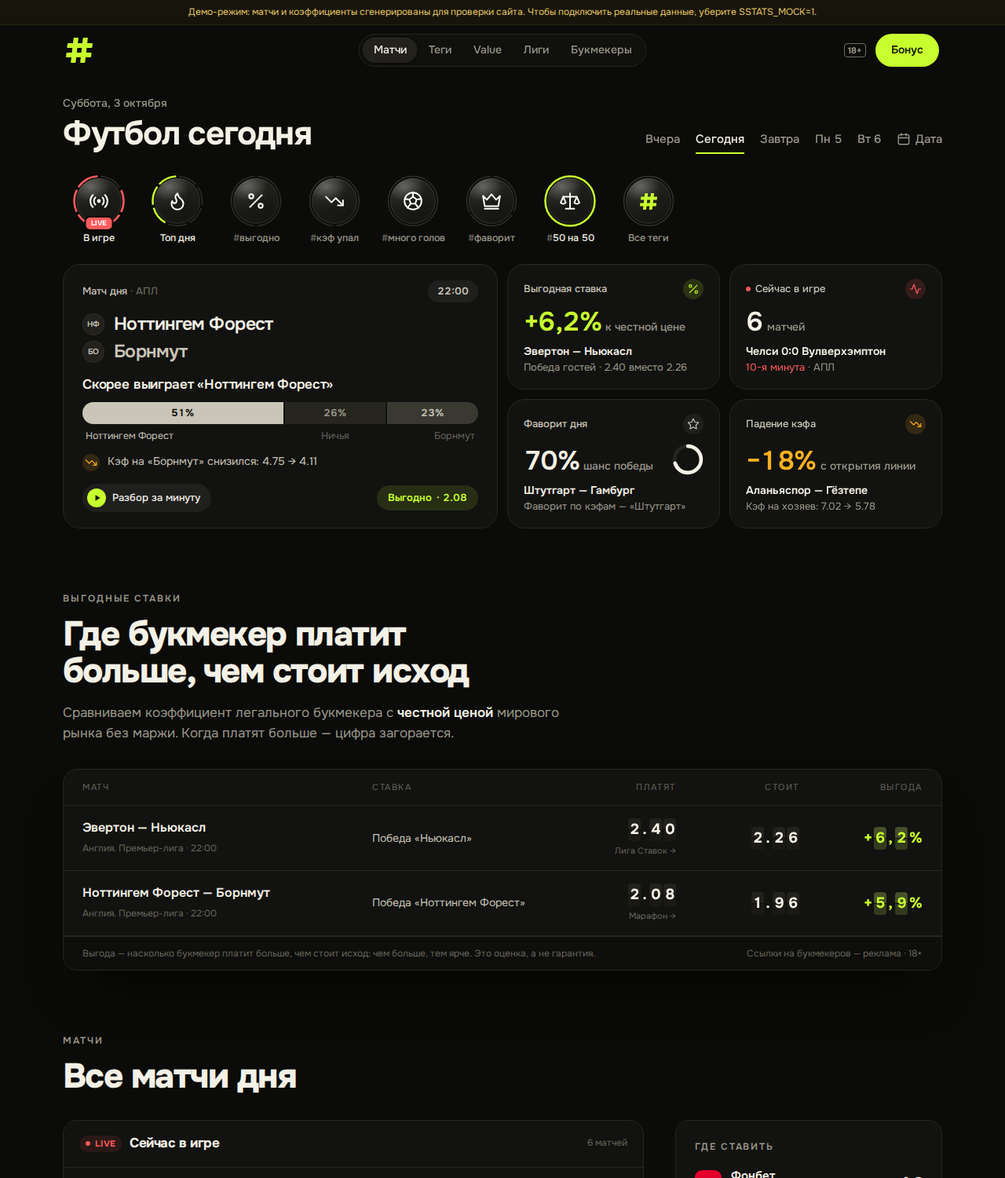
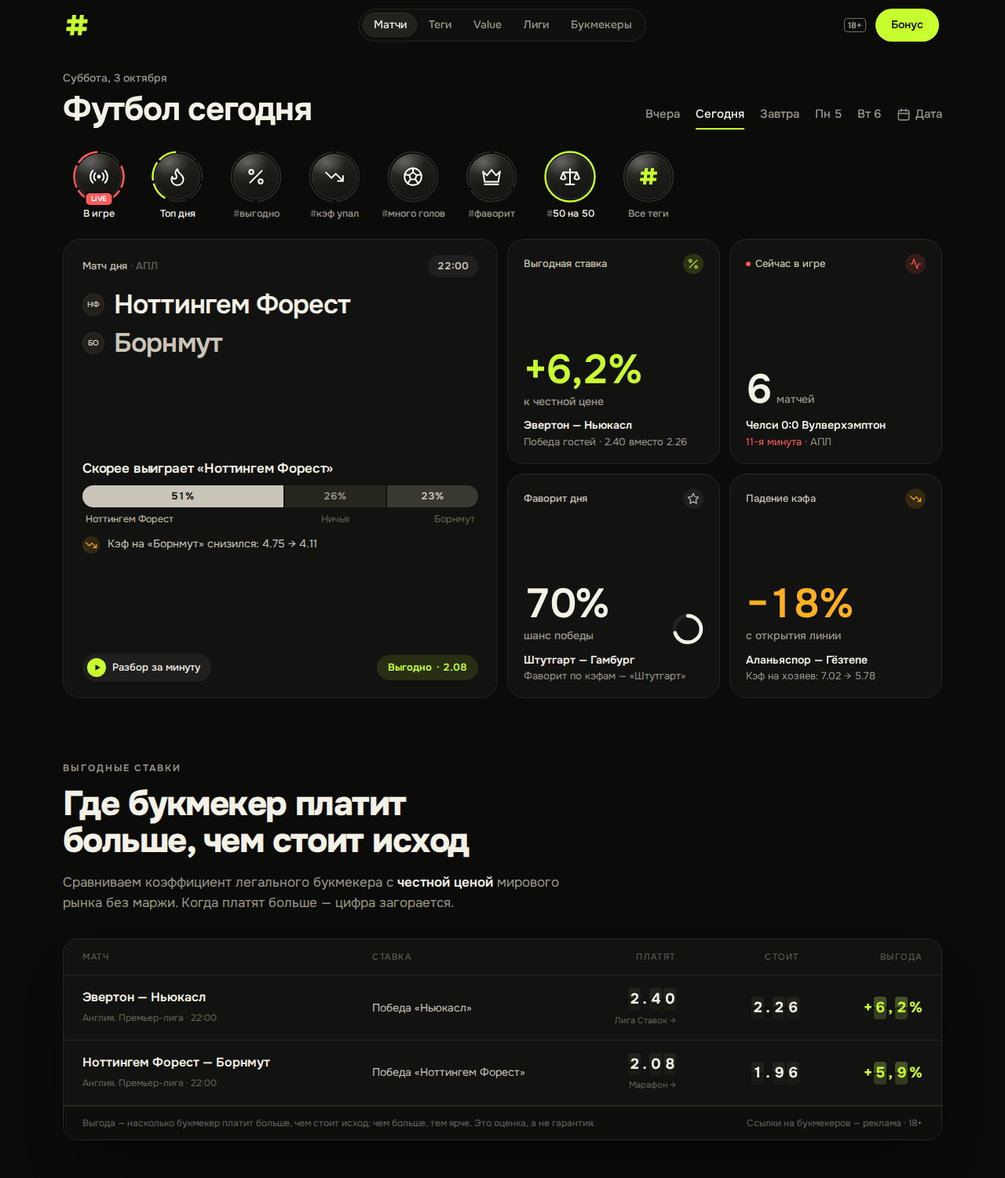
Первый экран — только виджеты, логотип меньше, без полосы демо-режима
- На компьютере заголовок, кружки и «Сводка дня» занимают всё окно (до 50rem):
  «Все матчи дня» начинаются ниже, по прокрутке. «Матч дня» — три группы
  (команды, вывод, кнопки), крупные цифры и команды растут с высотой окна.
- Логотип-решётка: 26 px в шапке, 28 в подвале.
- Убрана жёлтая полоса демо-режима над шапкой; в демо — тихая строка в подвале.
- Подпись к цифре («к честной цене», «с открытия линии») видна и на телефоне —
  переносится под цифру, а не обрезается.
- Полосы вкладок дней и кружков на телефоне больше не шире экрана (были +4 px
  и боковая прокрутка).
- README, AGENTS.md и docs/home.png обновлены.

Claude-Session: https://claude.ai/code/session_01LqCxNKeCAKNwhNzoBsjYvY

diff --git a/components/DaySummary.tsx b/components/DaySummary.tsx
@@ -88,12 +88,13 @@ function Tile({ accent = 'none', label, icon, children }: { accent?: keyof typeo
   )
 }
 
-/** Крупная цифра; подпись к ней — обычным размером, на телефоне её можно спрятать. */
+/** Крупная цифра и подпись к ней обычным размером: в узкой плитке подпись встаёт под цифру. */
 function Big({ children, unit, className = '' }: { children: React.ReactNode; unit?: React.ReactNode; className?: string }) {
   return (
-    <div className="flex min-w-0 items-baseline gap-1.5">
-      <span className={`num whitespace-nowrap text-[30px] font-semibold leading-none tracking-[-0.045em] sm:text-[34px] ${className}`}>{children}</span>
-      {unit ? <span className="truncate text-[14px] font-medium text-dim">{unit}</span> : null}
+    // подпись встаёт рядом с цифрой, а если места нет — переносится под неё целиком, не обрезаясь
+    <div className="flex min-w-0 flex-wrap items-baseline gap-x-1.5 gap-y-1">
+      <span className={`num whitespace-nowrap text-[30px] font-semibold leading-none tracking-[-0.045em] sm:text-[34px] lg:text-[clamp(34px,5.6vh,52px)] ${className}`}>{children}</span>
+      {unit ? <span className="whitespace-nowrap text-[14px] font-medium text-dim">{unit}</span> : null}
     </div>
   )
 }
@@ -156,7 +157,7 @@ function Card({ kind, s }: { kind: CardKind; s: Summary }) {
       const p = it.summary!.pick!
       return (
         <Tile accent="acid" label={<Short phone="Выгодно" full="Выгодная ставка" />} icon="percent">
-          <Big className="text-acid" unit={<span className="hidden sm:inline">к честной цене</span>}>
+          <Big className="text-acid" unit="к честной цене">
             {edge(p.ev ?? 0)}
           </Big>
           <MatchLink it={it} />
@@ -173,7 +174,7 @@ function Card({ kind, s }: { kind: CardKind; s: Summary }) {
       const g = s.progruz!
       return (
         <Tile accent="hot" label={<Short phone="Кэф упал" full="Падение кэфа" />} icon="down">
-          <Big className="text-hot" unit={<span className="hidden sm:inline">с открытия линии</span>}>
+          <Big className="text-hot" unit="с открытия линии">
             −{Math.round(g.drop * 100)}%
           </Big>
           <MatchLink it={g.item} />
@@ -281,6 +282,11 @@ function ChanceBar({ m }: { m: Match }) {
     n: n[k],
     name: k === 'draw' ? 'ничья' : k === 'home' ? m.home.name : m.away.name,
   }))
+  // «Ничья» под серединой — только если по обе стороны хватает места подписям команд
+  const BAR = 560
+  const est = (t: string) => t.length * 7 + 10
+  const mid = f.home + f.draw / 2
+  const drawAt = f.draw >= 0.1 && mid * BAR >= est(m.home.name) + 30 && (1 - mid) * BAR >= est(m.away.name) + 30 ? mid * 100 : null
   const tone = (k: (typeof cells)[number]['k']) => (k === fav ? 'bg-chalk text-ink' : k === 'draw' ? 'bg-[#26251f] text-dim' : 'bg-[#3a3931] text-chalk')
   const label = `Шансы по коэффициентам букмекеров: ${cells.map((c) => `${c.k === 'draw' ? c.name : `«${c.name}»`} — ${c.n}%`).join(', ')}`
   return (
@@ -292,16 +298,26 @@ function ChanceBar({ m }: { m: Match }) {
           </span>
         ))}
       </div>
-      <div className="mt-1.5 flex gap-0.5 text-[12.5px]" aria-hidden>
-        {cells.map((c, i) => (
-          <span
-            key={c.k}
-            className={`min-w-0 truncate px-1 ${i === 0 ? 'text-left' : i === 2 ? 'text-right' : 'text-center'} ${c.k === fav ? 'text-chalk' : 'text-mute'}`}
-            style={{ width: `${c.p * 100}%` }}
-          >
-            {c.k === 'draw' ? 'Ничья' : c.name}
+      {/* команды — по краям полосы, не обрезаются узким сегментом; «Ничья» — под серединой,
+          если ей хватает места (оценка по ширине полосы ~560 px), на телефоне — только команды */}
+      <div className="relative mt-1.5 h-[18px] text-[12.5px] leading-[18px]" aria-hidden>
+        <span
+          className={`absolute left-0 top-0 max-w-[55%] truncate pl-1 sm:max-w-[var(--hm)] ${fav === 'home' ? 'text-chalk' : 'text-mute'}`}
+          style={{ '--hm': drawAt ? `${drawAt - 6}%` : '55%' } as React.CSSProperties}
+        >
+          {m.home.name}
+        </span>
+        {drawAt ? (
+          <span className="absolute top-0 hidden -translate-x-1/2 text-mute sm:block" style={{ left: `${drawAt}%` }}>
+            Ничья
           </span>
-        ))}
+        ) : null}
+        <span
+          className={`absolute right-0 top-0 max-w-[45%] truncate pr-1 text-right sm:max-w-[var(--am)] ${fav === 'away' ? 'text-chalk' : 'text-mute'}`}
+          style={{ '--am': drawAt ? `${100 - drawAt - 6}%` : '45%' } as React.CSSProperties}
+        >
+          {m.away.name}
+        </span>
       </div>
     </div>
   )
@@ -339,27 +355,35 @@ function TopCard({ it }: { it: FeedItem }) {
     </span>
   )
   return (
-    <article className="relative col-span-2 flex min-w-0 flex-col rounded-[22px] border border-edge bg-panel p-5 shadow-[inset_0_1px_0_rgb(255_255_255/0.035)] transition-colors duration-300 hover:border-edge-2 sm:px-6 sm:py-5 lg:row-span-2">
-      <div className="flex items-center justify-between gap-3">
-        <p className="min-w-0 truncate text-[13px] font-medium text-chalk">
-          Матч дня <span className="text-mute">· {featuredInfo(m.league)?.short || m.league.name}</span>
-        </p>
-        <span
-          className={`num inline-flex h-7 shrink-0 items-center gap-1.5 rounded-full px-3 text-[13px] font-semibold ${
-            live ? 'bg-live/10 text-live' : 'bg-white/[0.06] text-chalk'
-          }`}
+    // три группы: команды сверху, вывод посередине, кнопки снизу — свободное место делится между ними,
+    // а не собирается одной дырой, когда карточка тянется на высоту экрана
+    <article className="relative col-span-2 flex min-w-0 flex-col justify-between gap-5 rounded-[22px] border border-edge bg-panel p-5 shadow-[inset_0_1px_0_rgb(255_255_255/0.035)] transition-colors duration-300 hover:border-edge-2 sm:px-6 sm:py-5 lg:row-span-2">
+      <div>
+        <div className="flex items-center justify-between gap-3">
+          <p className="min-w-0 truncate text-[13px] font-medium text-chalk">
+            Матч дня <span className="text-mute">· {featuredInfo(m.league)?.short || m.league.name}</span>
+          </p>
+          <span
+            className={`num inline-flex h-7 shrink-0 items-center gap-1.5 rounded-full px-3 text-[13px] font-semibold ${
+              live ? 'bg-live/10 text-live' : 'bg-white/[0.06] text-chalk'
+            }`}
+          >
+            {live ? <span className="h-1.5 w-1.5 animate-pulse-live rounded-full bg-live" /> : null}
+            {live ? (m.statusCode === 4 ? 'перерыв' : m.elapsed ? `${m.elapsed}′` : 'идёт') : m.status === 'finished' ? 'итог' : formatTime(m.ts)}
+          </span>
+        </div>
+
+        <StoryLink
+          id={m.id}
+          href={matchHref(m)}
+          className={`mt-3.5 block space-y-1.5 text-[21px] font-semibold leading-tight tracking-[-0.025em] sm:text-[23px] lg:text-[clamp(23px,3.8vh,34px)] ${COVER}`}
         >
-          {live ? <span className="h-1.5 w-1.5 animate-pulse-live rounded-full bg-live" /> : null}
-          {live ? (m.statusCode === 4 ? 'перерыв' : m.elapsed ? `${m.elapsed}′` : 'идёт') : m.status === 'finished' ? 'итог' : formatTime(m.ts)}
-        </span>
+          {team(m.home, m.score?.home)}
+          {team(m.away, m.score?.away, true)}
+        </StoryLink>
       </div>
 
-      <StoryLink id={m.id} href={matchHref(m)} className={`mt-3.5 block space-y-1.5 text-[21px] font-semibold leading-tight tracking-[-0.025em] sm:text-[23px] ${COVER}`}>
-        {team(m.home, m.score?.home)}
-        {team(m.away, m.score?.away, true)}
-      </StoryLink>
-
-      <div className="mt-auto pt-4">
+      <div>
         {played ? (
           <>
             <p className="mb-3 text-[17px] font-semibold leading-snug tracking-[-0.01em]">
@@ -386,7 +410,10 @@ function TopCard({ it }: { it: FeedItem }) {
             ) : null}
           </>
         )}
-        <div className="mt-4 flex flex-wrap items-center justify-between gap-x-3 gap-y-2 text-[13px]">
+      </div>
+      {/* кнопки — внизу карточки */}
+      <div>
+        <div className="flex flex-wrap items-center justify-between gap-x-3 gap-y-2 text-[13px]">
           <span aria-hidden className="inline-flex shrink-0 items-center gap-2 whitespace-nowrap rounded-full bg-white/[0.06] py-1.5 pl-1.5 pr-3.5 font-medium text-fg">
             <span className="grid h-6 w-6 place-items-center rounded-full bg-acid text-acid-ink">
               <svg viewBox="0 0 12 12" className="ml-px h-2.5 w-2.5" fill="currentColor">

diff --git a/components/DayView.tsx b/components/DayView.tsx
@@ -104,32 +104,37 @@ export async function DayView({ ymd, today }: { ymd: string; today: string }) {
 
   return (
     <>
-      <section className="flex flex-wrap items-end justify-between gap-x-8 gap-y-3 pt-1 sm:pt-0">
-        <div className="min-w-0">
-          <p className="fade-up text-[14px] font-medium text-dim">{heading.date}</p>
-          <h1 className="mt-1.5 text-[32px] font-bold leading-[1.08] tracking-[-0.03em] sm:text-[42px]">
-            <span className="rise">
-              <span>
-                {heading.title}
-                {/* дата — и в заголовке для поисковиков */}
-                <span className="sr-only">, {formatDayMonth(ymdToNoonTs(ymd))}</span>
+      {/* первый экран: заголовок, кружки и сводка. На компьютере сводка тянется до низа окна —
+          заходишь и сразу видишь всё нужное, а «Все матчи дня» начинаются ниже, по прокрутке.
+          На очень высоких мониторах — не выше 50rem (хватает на обычное окно браузера на экране 1080p), чтобы плитки не раздувались. */}
+      <div className={daySummary.top ? 'flex flex-col lg:min-h-[min(calc(100svh-7rem),50rem)]' : undefined}>
+        <section className="flex flex-wrap items-end justify-between gap-x-8 gap-y-3 pt-1 sm:pt-0">
+          <div className="min-w-0">
+            <p className="fade-up text-[14px] font-medium text-dim">{heading.date}</p>
+            <h1 className="mt-1.5 text-[32px] font-bold leading-[1.08] tracking-[-0.03em] sm:text-[42px]">
+              <span className="rise">
+                <span>
+                  {heading.title}
+                  {/* дата — и в заголовке для поисковиков */}
+                  <span className="sr-only">, {formatDayMonth(ymdToNoonTs(ymd))}</span>
+                </span>
               </span>
-            </span>
-          </h1>
-        </div>
-        <div className="fade-up w-full min-w-0 sm:w-auto" style={{ animationDelay: '150ms' }}>
-          <DateTabs active={ymd} today={today} />
-        </div>
-      </section>
-
-      {storyGroups.length ? (
-        // кружки понятны и без подписи «Истории дня» — так первый экран влезает целиком
-        <section aria-label="Истории дня" className="mt-5 sm:mt-6">
-          <StoryCircles groups={storyGroups} covers={storyCovers()} />
+            </h1>
+          </div>
+          <div className="fade-up w-full min-w-0 sm:w-auto" style={{ animationDelay: '150ms' }}>
+            <DateTabs active={ymd} today={today} />
+          </div>
         </section>
-      ) : null}
 
-      <DaySummary s={daySummary} className="mt-5" />
+        {storyGroups.length ? (
+          // кружки понятны и без подписи «Истории дня» — так первый экран влезает целиком
+          <section aria-label="Истории дня" className="mt-5 sm:mt-6">
+            <StoryCircles groups={storyGroups} covers={storyCovers()} />
+          </section>
+        ) : null}
+
+        <DaySummary s={daySummary} className="mt-5 lg:flex-1" />
+      </div>
 
       <ValueBoard items={values} />
 

diff --git a/components/Footer.tsx b/components/Footer.tsx
@@ -1,5 +1,6 @@
 import Link from 'next/link'
 import { SITE } from '@/config/site'
+import { IS_MOCK } from '@/lib/sstats/client'
 import { LogoMark } from './Logo'
 
 export function Footer() {
@@ -7,7 +8,7 @@ export function Footer() {
     <footer className="mt-20 border-t border-edge">
       <div className="mx-auto grid max-w-6xl gap-8 px-4 py-10 sm:grid-cols-[1.4fr_1fr_1fr]">
         <div>
-          <LogoMark size={32} />
+          <LogoMark size={28} />
           <p className="mt-3 max-w-sm text-sm leading-relaxed text-dim">
             Теги ставок на футбол: сравнение коэффициентов, вероятности без маржи, форма команд и прогнозы на основе данных.
           </p>
@@ -41,11 +42,15 @@ export function Footer() {
         </nav>
       </div>
       <div className="border-t border-edge">
-        <p className="mx-auto max-w-6xl px-4 py-5 text-[11px] leading-relaxed text-mute">
-          Материалы сайта носят информационно-аналитический характер и не являются призывом делать ставки. Прогнозы основаны на
-          статистике и не гарантируют результат. На сайте размещены партнёрские ссылки на легальных букмекеров: при регистрации по
-          ним сайт может получать вознаграждение. Данные о матчах и коэффициентах — SStats.net. © {new Date().getFullYear()} {SITE.name}
-        </p>
+        <div className="mx-auto max-w-6xl space-y-2 px-4 py-5 text-[11px] leading-relaxed text-mute">
+          <p>
+            Материалы сайта носят информационно-аналитический характер и не являются призывом делать ставки. Прогнозы основаны на
+            статистике и не гарантируют результат. На сайте размещены партнёрские ссылки на легальных букмекеров: при регистрации по
+            ним сайт может получать вознаграждение. Данные о матчах и коэффициентах — SStats.net. © {new Date().getFullYear()} {SITE.name}
+          </p>
+          {/* демо-режим: вместо полосы над шапкой — тихая строка здесь, чтобы синтетические данные не выдавали за настоящие */}
+          {IS_MOCK ? <p>Сейчас включён демо-режим: матчи и коэффициенты сгенерированы для проверки сайта.</p> : null}
+        </div>
       </div>
     </footer>
   )

diff --git a/components/story/StoryCircles.tsx b/components/story/StoryCircles.tsx
@@ -110,7 +110,7 @@ export function StoryCircles({ groups, covers = {} }: { groups: StoryGroup[]; co
   }
 
   return (
-    <nav aria-label="Истории дня" className="scrollbar-none -mx-5 flex gap-2 overflow-x-auto px-5 pb-1 pt-0.5 [mask-image:linear-gradient(to_right,#000_calc(100%-40px),transparent)] sm:mx-0 sm:px-0 sm:[mask-image:none]">
+    <nav aria-label="Истории дня" className="scrollbar-none -mx-4 flex gap-2 overflow-x-auto px-4 pb-1 pt-0.5 [mask-image:linear-gradient(to_right,#000_calc(100%-40px),transparent)] sm:mx-0 sm:px-0 sm:[mask-image:none]">
       {groups.map((g, gi) => {
         const marks = g.items.map((it) => seen.has(it.id))
         const done = marks.every(Boolean)

diff --git a/components/DateTabs.tsx b/components/DateTabs.tsx
@@ -27,7 +27,7 @@ export function DateTabs({ active, today }: { active: string; today: string }) {
   const days = strip.includes(active) ? strip : active < strip[0] ? [active, ...strip] : [...strip, active]
   const label = (d: string) => (strip.includes(d) ? shortDay(d, today) : dayMonthFmt.format(ymdToNoonTs(d)).replace('.', ''))
   return (
-    <nav aria-label="Выбор дня" className="scrollbar-none -mx-5 overflow-x-auto px-5 sm:mx-0 sm:px-0">
+    <nav aria-label="Выбор дня" className="scrollbar-none -mx-4 overflow-x-auto px-4 sm:mx-0 sm:px-0">
       <div className="flex w-max items-center gap-5">
         {days.map((d) => {
           const on = d === active

diff --git a/app/layout.tsx b/app/layout.tsx
@@ -1,7 +1,6 @@
 import '@fontsource-variable/onest'
 import './globals.css'
 import type { Metadata, Viewport } from 'next'
-import { DemoBanner } from '@/components/DemoBanner'
 import { Footer } from '@/components/Footer'
 import { Header } from '@/components/Header'
 import { Metrika } from '@/components/Metrika'
@@ -43,7 +42,6 @@ export default function RootLayout({ children }: { children: React.ReactNode }) 
   return (
     <html lang="ru">
       <body className="min-h-dvh antialiased">
-        <DemoBanner />
         <Header />
         <main className="mx-auto max-w-6xl px-4 pb-28 pt-4 sm:pt-6">{children}</main>
         <Footer />

diff --git a/components/Header.tsx b/components/Header.tsx
@@ -13,7 +13,7 @@ export function Header() {
     <HeaderShell>
       <div className="relative mx-auto flex h-16 max-w-6xl items-center gap-4 px-5">
         <Link href="/" aria-label="tag.bet — на главную" className="shrink-0 text-fg transition-opacity hover:opacity-85">
-          <LogoMark size={32} />
+          <LogoMark size={26} />
         </Link>
         {/* капсула — строго по центру страницы, независимо от ширины краёв */}
         <div className="absolute left-1/2 top-1/2 hidden -translate-x-1/2 -translate-y-1/2 md:block">

diff --git a/AGENTS.md b/AGENTS.md
@@ -17,11 +17,11 @@ This block is written and re-added by `next dev` — verify at `node_modules/nex
 - Цветовой токен фона называется `ink` (не `base`: в Tailwind v4 `text-base` — размер шрифта).
 - Партнёрские ссылки — только через `goHref()` → `/go/[slug]` (учёт кликов + subid) и `CtaLink` (rel=sponsored).
 - Тексты — по-русски; названия команд в текстах только в именительном падеже («команда «X»»).
-- Демо без сети: `SSTATS_MOCK=1`. Проверки: `npm run typecheck`, `npm test`, `npm run build`.
+- Демо без сети: `SSTATS_MOCK=1` (полосы над шапкой нет — только строка в подвале, `IS_MOCK` в `Footer.tsx`). Проверки: `npm run typecheck`, `npm test`, `npm run build`.
 - «Матч в слайдах» (сторис): данные — `lib/story.ts` → `/api/story/[id]`, просмотр и графики — `components/story/`. Ссылки на матч в списках — через `StoryLink` (обычная ссылка для SEO, клик открывает сторис).
 - Кружки историй на главной: группы — `lib/story-groups.ts` (порядок по `lib/rank.ts`), ряд — `components/story/StoryCircles.tsx`, очередь передаётся в просмотрщик через `openStory({ queue })`. Просмотренные матчи — в `localStorage` (`components/story/seen.ts`), только для колец. На главной — «В игре», «Топ дня» и до 5 главных тегов (`mainCircles`), подписи в одну строку.
-- «Сводка дня» (виджеты первого экрана главной): данные — `lib/day-summary.ts` (`buildDaySummary`, `summaryCards` — какие 4 маленьких виджета показать), вид — `components/DaySummary.tsx` (одна схема плитки: подпись → крупная цифра → матч → одна строка пояснения, без осей, легенд и текста мельче 13px; «Матч дня» — вывод → причина → разбор: команды, фраза словами, нейтральная полоса шансов в процентах с подписями «команда · Ничья · команда» (светлая — фаворит), одна причина, «Разбор за минуту» и «Выгодно». Все плитки тёмные: цвет только на главной цифре и значке — лайм у выгодной ставки, янтарь у падения кэфа, красный у live; у каждой цифры точная подпись — «к честной цене», «с открытия линии», «шанс победы», «шанс 3+ голов» + порог отбора; у будущих дней — дата, а не «через 66 ч»). Выбор дня — `DateTabs` + календарь `DatePicker` (±1 год / +2 месяца). Первый экран главной (шапка, кружки, сводка) должен влезать в ноутбук 1440×760 без прокрутки — проверяйте замером. На прошедших днях сводки нет.
-- Шапка (логотип — только наклонная лаймовая решётка `LogoMark`, без надписи «tag.bet» — так решил владелец; знак — `components/logo-paths.ts` из `public/brand/mark.svg`; без подложки): `components/Header.tsx` + `HeaderShell.tsx` (стекло после прокрутки) + `NavCapsule.tsx` (меню-капсула; раздел по адресу — `activeNav`).
+- «Сводка дня» (виджеты первого экрана главной): данные — `lib/day-summary.ts` (`buildDaySummary`, `summaryCards` — какие 4 маленьких виджета показать), вид — `components/DaySummary.tsx` (одна схема плитки: подпись → крупная цифра → матч → одна строка пояснения, без осей, легенд и текста мельче 13px; «Матч дня» — вывод → причина → разбор: команды, фраза словами, нейтральная полоса шансов в процентах с подписями «команда · Ничья · команда» (светлая — фаворит), одна причина, «Разбор за минуту» и «Выгодно». Все плитки тёмные: цвет только на главной цифре и значке — лайм у выгодной ставки, янтарь у падения кэфа, красный у live; у каждой цифры точная подпись — «к честной цене», «с открытия линии», «шанс победы», «шанс 3+ голов» + порог отбора; у будущих дней — дата, а не «через 66 ч»). Выбор дня — `DateTabs` + календарь `DatePicker` (±1 год / +2 месяца). Первый экран главной (шапка, кружки, сводка) на компьютере занимает всё окно: обёртка в `DayView` — `lg:min-h-[min(calc(100svh-7rem),50rem)]`, сводка — `lg:flex-1`, крупные цифры и команды «Матча дня» растут с высотой окна (`clamp(…vh…)`), а «Все матчи дня» начинаются ниже, по прокрутке. Сводка должна влезать целиком в 1280×720 и 1440×760, а заголовок «Матчи» — не выглядывать снизу; проверяйте замером. На прошедших днях сводки нет.
+- Шапка (логотип — только наклонная лаймовая решётка `LogoMark`, 26 px в шапке и 28 в подвале, без надписи «tag.bet» — так решил владелец; знак — `components/logo-paths.ts` из `public/brand/mark.svg`; без подложки): `components/Header.tsx` + `HeaderShell.tsx` (стекло после прокрутки) + `NavCapsule.tsx` (меню-капсула; раздел по адресу — `activeNav`).
 - Цвета по смыслу: лайм — «цена выше честной» (сила перевеса — яркостью лайма, `edgeTone` в `components/Flaps.tsx`), янтарь — прогруз, красный — live. Светофор не используем.
 - Для тех, кто не разбирается в цифрах: вывод словами — `lib/verdict.ts` (`buildVerdict`: «Скорее выиграет «X»», голы, падение кэфа, выгодная ставка; `split100` — проценты трёх исходов в сумме ровно 100, `outcomeText`/`outcomeShort` — исход словами вместо «П1»/«ТБ 2.5»). Только факты из данных: про прогруз — «кэф снизился», не «массово ставят». Пороги слов — как у тега #фаворит (60%) и слайда «Кто фаворит» (47%). Без обещаний: только «скорее», «вероятно». В строках и «Матче дня» — только выгодная ставка (обычный прогноз модели бывает «против» вывода). Теги подписаны простыми словами (`label`: `#выгодно`, `#кэф упал`…), slug и адреса прежние; цифра тега — в `TagHit.p`, а не в тексте.
 - Обложки кружков историй: одна тёмная основа `CIRCLE_BG` + белая иконка тега — `lib/story-art.ts` + `components/story/ArtIcon.tsx` (цвет — только в кольце: лайм не смотрели, красный LIVE, серый просмотрено; цвета тегов `ART` — только для фона просмотрщика); своя картинка — файл `public/stories/<ключ>.*` (`lib/story-covers.ts`, только сервер). Цифр в кружках нет.

diff --git a/README.md b/README.md
@@ -31,9 +31,10 @@
 
 ## Что уже работает
 
-- Главная и страницы дней: кружки историй («В игре», «Топ дня», по кружку на каждый тег), «сводка дня»
-  из виджетов на первом экране (матч дня с выводом словами, выгодная ставка, падение кэфа, live или
-  первый матч, голы, фаворит — каждый открывает сторис), таблица «Выгодные ставки», матчи по турнирам (топ-лиги
+- Главная и страницы дней: кружки историй («В игре», «Топ дня», до пяти главных тегов и «Все теги»), «сводка
+  дня» из виджетов — она занимает весь первый экран: заходишь и сразу видишь главное (матч дня с выводом
+  словами, выгодная ставка, падение кэфа, live или первый матч, голы, фаворит — каждый открывает сторис),
+  а список матчей начинается ниже, по прокрутке. Дальше — таблица «Выгодные ставки», матчи по турнирам (топ-лиги
   первыми), live-счёт; в строке матча — вывод словами («Скорее выиграет «X»»), полоса «кто сильнее»,
   кэфы на хозяев · ничью · гостей с отметкой падения, выгодный кэф горит лаймом, теги. Выбор дня — вкладки
   «Вчера · Сегодня · Завтра…» и кнопка календаря: любой день за год назад и два месяца вперёд.
@@ -127,7 +128,8 @@ npm install
 SSTATS_MOCK=1 npm run dev        # http://localhost:3000
 ```
 
-В демо-режиме сверху висит жёлтая плашка, а `robots.txt` закрывает сайт от индексации.
+В демо-режиме внизу страницы, в подвале, есть строка о том, что данные сгенерированы, а `robots.txt`
+закрывает сайт от индексации. Полосы над шапкой нет.
 Чтобы посмотреть live-матчи в любое время суток, «переведите часы» демо-данных:
 `SSTATS_MOCK=1 SSTATS_MOCK_NOW=2026-10-02T19:30:00+03:00 npm run dev`.
 
